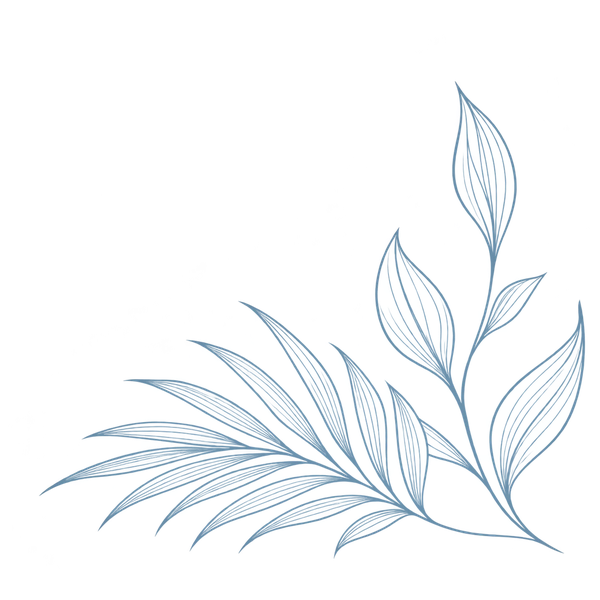
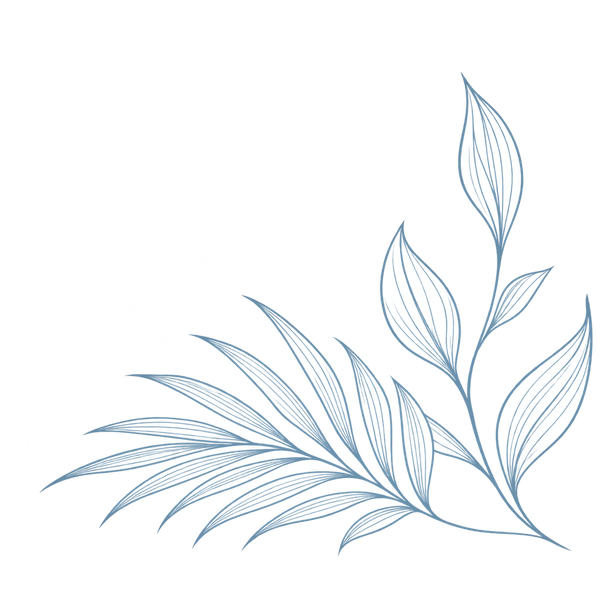
Acerca las hojas decorativas a los bordes en Celebración para adultos
Recorta el margen transparente de las imágenes y agrega un pequeño
sangrado hacia afuera para que queden pegadas a la esquina.

diff --git a/public/wedding-invitation_1.html b/public/wedding-invitation_1.html
@@ -786,8 +786,8 @@
     pointer-events: none;
     z-index: 0;
   }
-  .no-kids-leaf-bl { bottom: 0; left: 0; }
-  .no-kids-leaf-br { bottom: 0; right: 0; }
+  .no-kids-leaf-bl { bottom: 0; left: -20px; }
+  .no-kids-leaf-br { bottom: 0; right: -20px; }
 
   .no-kids-text {
     position: relative;
